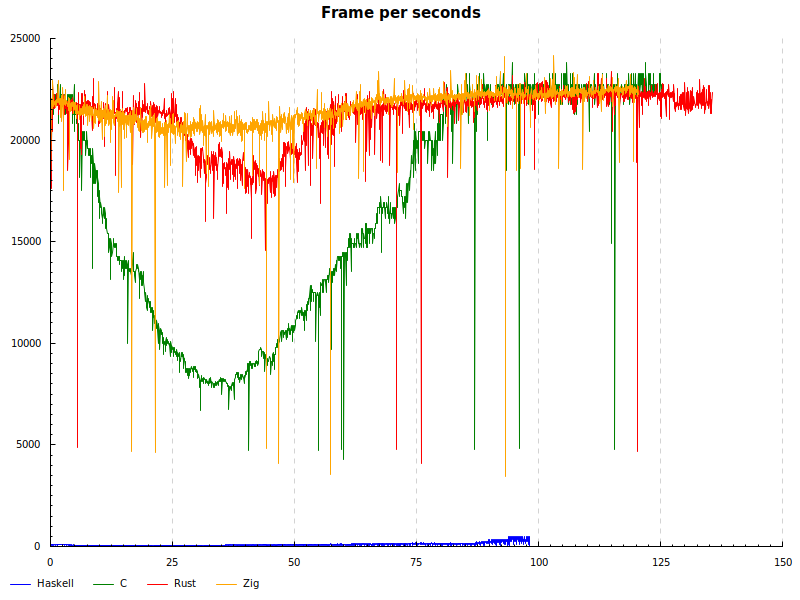
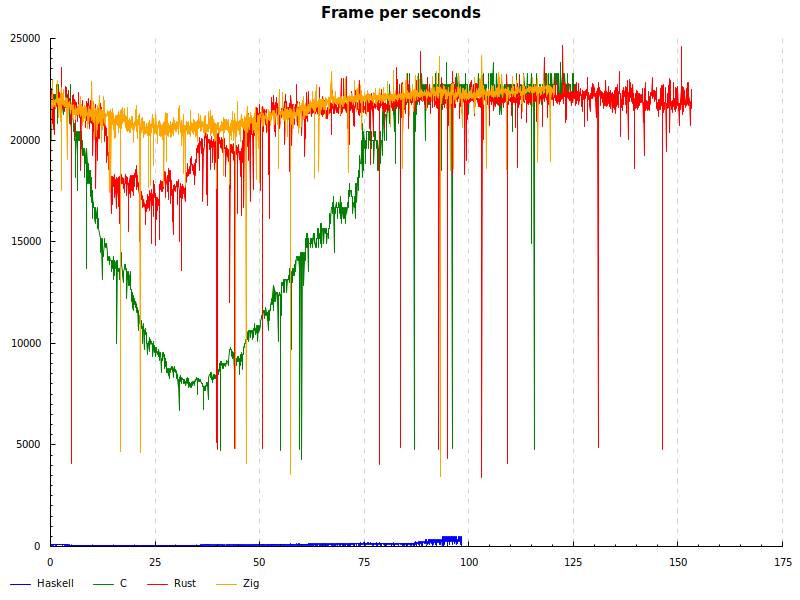
Add rust parallelization for collisions

diff --git a/rust/asteroids/src/asteroids/systems/physics.rs b/rust/asteroids/src/asteroids/systems/physics.rs
@@ -1,6 +1,7 @@
 use glam::Vec2;
 use shrev::EventChannel;
 use specs::prelude::*;
+use std::sync::mpsc::*;
 
 use super::super::components::asteroid::*;
 use super::super::components::bullet::*;
@@ -44,36 +45,45 @@ impl<'a> System<'a> for SysPhysics {
         ): Self::SystemData,
     ) {
         let dt = delta.0.as_secs_f32();
-        for (pos, vel) in (&mut pos, &vel).join() {
+        (&mut pos, &vel).par_join()
+            .for_each(|(pos, vel)| {
             // Apply all velocities
             pos.0 += vel.0 * dt;
             // Wrap space
             wrap_space(&wsize, pos);
-        }
+        });
+
+
         // Check collisions between bullet and asteroids
-        'outer1: for (_, bpos, be) in (&bullet, &pos, &entities).join() {
-            for (asteroid, apos, ae) in (&asteroid, &pos, &entities).join() {
+        let (asender, areceiver) = channel();
+        (&bullet, &pos, &entities).par_join().for_each_with(asender, |asender, (_, bpos, be)| {
+            (&asteroid, &pos, &entities).join().for_each(|(asteroid, apos, ae)| {
                 if asteroid_collide_point(asteroid, apos.0, bpos.0) {
-                    asteroid_chan.single_write(AsteroidBreak(ae));
+                    asender.send(AsteroidBreak(ae)).unwrap();
                     match entities.delete(be).stringify() {
                         Err(msg) => println!("Failed to delete bullet {:?}: {}", be, msg),
                         _ => (),
                     }
-                    break 'outer1;
                 }
-            }
+            });
+        });
+        for event in areceiver.iter() {
+            asteroid_chan.single_write(event);
         }
         // Check collision between player and asteroids
-        'outer2: for (asteroid, apos, ae) in (&asteroid, &pos, &entities).join() {
-            for (_, ppos, pe) in (&player, &pos, &entities).join() {
+        let (psender, preceiver) = channel();
+        (&asteroid, &pos, &entities).par_join().for_each_with(psender, |psender, (asteroid, apos, ae)| {
+            (&player, &pos, &entities).join().for_each(|(_, ppos, pe)| {
                 if asteroid_collide_radius(asteroid, apos.0, ppos.0, PLAYER_COLLIDE_RADIUS) {
-                    player_chan.single_write(PlayerCollide {
+                    psender.send(PlayerCollide {
                         player: pe,
                         obstacle: ae,
-                    });
-                    break 'outer2;
+                    }).unwrap();
                 }
-            }
+            });
+        });
+        for event in preceiver.iter() {
+            player_chan.single_write(event);
         }
     }
 }
